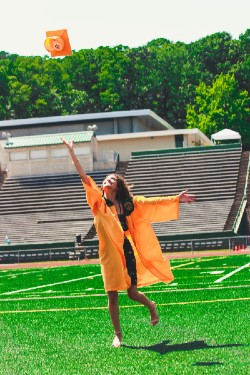
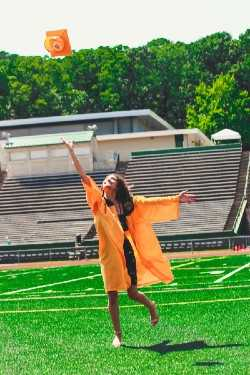
solo grad picture improved

diff --git a/lesson-10/lesson-10.html b/lesson-10/lesson-10.html
@@ -94,7 +94,10 @@
             </article>
             <article>
                 <div class="Story">
-                    <img src="../lesson6/images/SoloGrad.jpg" alt="Graduate celebrating in empty stadium">
+                    <picture class="Wk6Hero">
+                        <source media="(max-width: 775px)" srcset="../lesson6/images/SoloGrad-small.jpg">
+                        <img src="../lesson6/images/SoloGrad.jpg" alt="Graduate celebrating in empty stadium">
+                    </picture>
                     <h3 id="Title">Grads Still Celebrate Amidst Coronavirus</h3>
                     <div id="Author">By Katelyn Page</div>
                     <p> &emsp; Lorem ipsum dolor sit amet consectetur adipisicing elit. Dolore odit veniam laudantium
